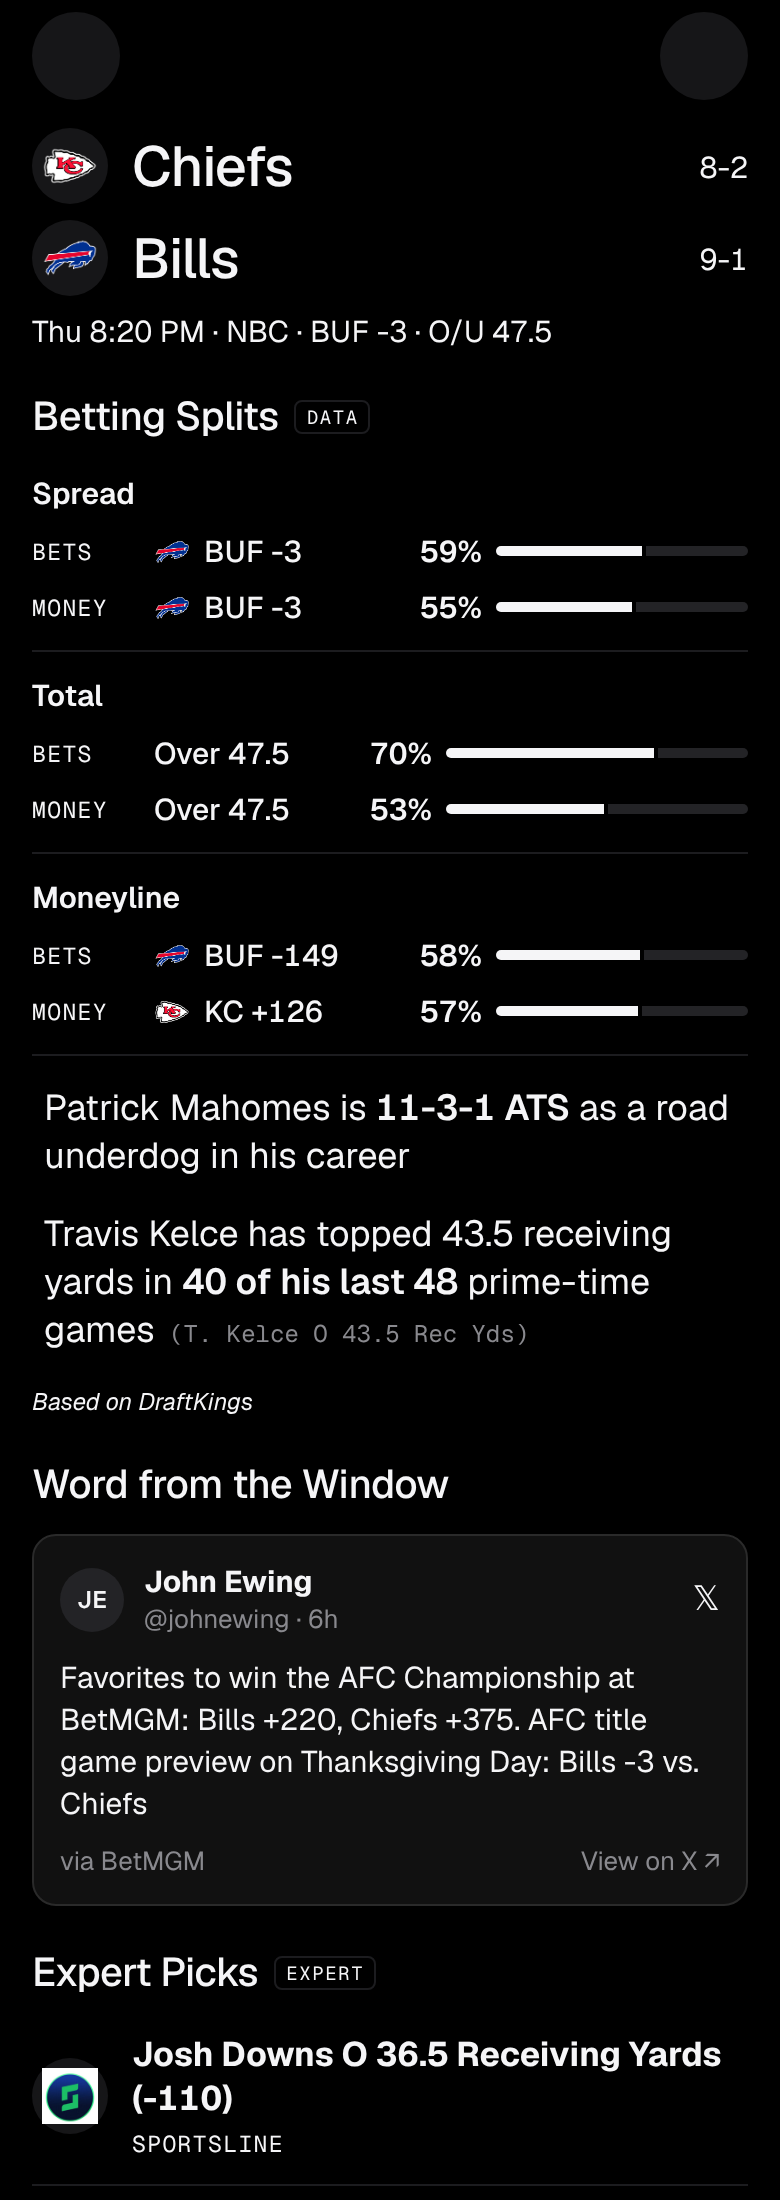
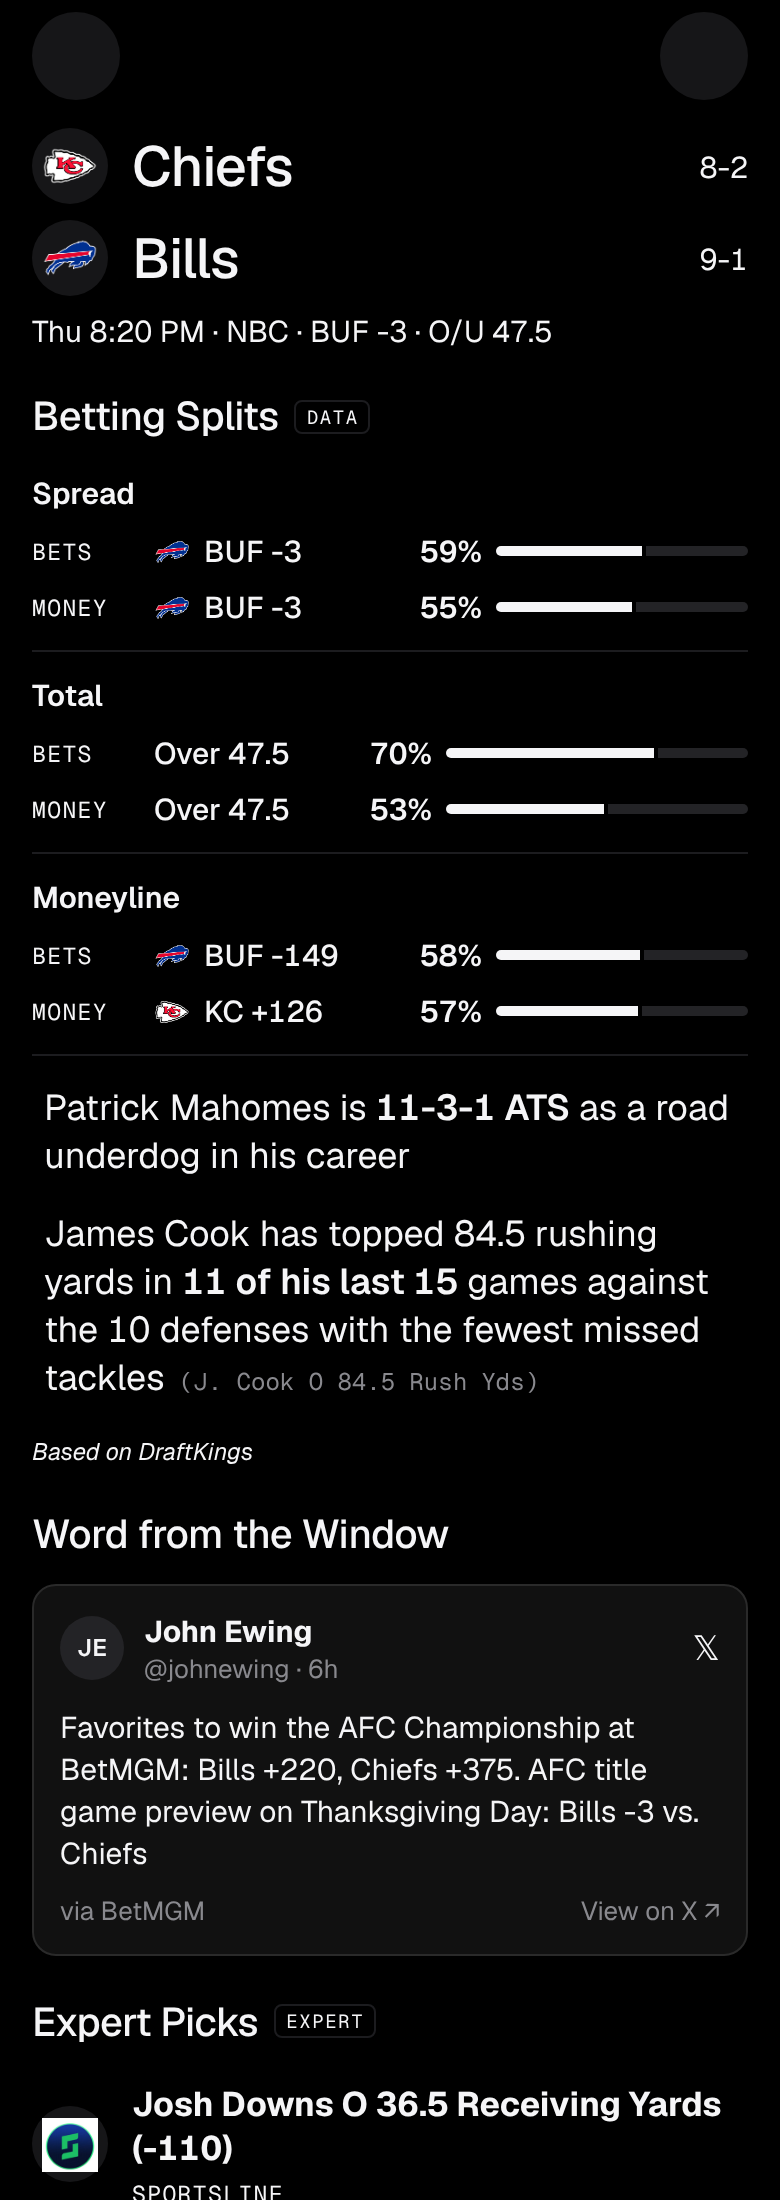
Player lines: prefer defense, teammate, coach and opponent angles; rank stale spans last (D-105)
The shown line now prefers, among angles that pass the bar, the opponent's
defense this season (ranks, blitz and pressure), then teammates and the
quarterback, then this coach or his former team, then this opponent, then
the setting, his form and plain splits. A sample mostly from before the
last three seasons ranks behind every fresher angle, so a 48-game career
span no longer tops a game. Same bar, same check pass, one line per game.
Today's rows re-seeded; after screenshot updated.

Claude-Session: https://claude.ai/code/session_01GABbi6DtH7oST5ZKYYFAPk

Changed region(s): [[0.0308, 0.5564, 0.9231, 1.0], [0.8923, 0.7109, 0.9231, 0.7727]]

diff --git a/scripts/angles/player_angles.py b/scripts/angles/player_angles.py
@@ -188,12 +188,19 @@ BIG_GAMES = {   # (stat, threshold, phrase) for "after a big game", by market fa
     "rec": ("receiving_yards", 100, "after a 100-yard receiving game"),
     "nba_pts": ("pts", 30, "after a 30-point game"),
 }
-# What makes an angle interesting: matchup, defense, coach, teammates and weather first, then the setting
-# and his form; plain splits (PLAIN) rank behind every angle that has something more specific.
+# Within a preference tier (TIER below), what makes one angle stronger than another: the score weighs these.
 BOOST = {"defense": 1.5, "coach": 1.5, "former": 1.5, "out": 1.5, "qbout": 1.5, "cold": 1.3, "wind": 1.3,
          "opp": 1.0, "qb": 0.3, "prime": 0.8, "tv": 0.4, "div": 0.6, "rest": 0.8, "big": 0.9, "own": 0.4, "mins": 0.6,
          "roof": 0.4, "role": 0.0, "fd": 0.0, "bigline": 0.2, "prev": 0.2}
-PLAIN = {"role", "fd", "bigline", "prev"}   # vanilla splits: they lead only when nothing else passes
+# The order the shown line prefers, among angles that pass the bar (owner, Nov 24: "how many times a player
+# gets blitzed vs. the defense... success against a certain coach... how a team ranks in the league"):
+# 1 the opponent's defense this season (ranks, blitz and pressure), 2 teammates and his quarterback,
+# 3 this head coach or his former team, 4 this opponent, 5 the setting, 6 his own form, 7 plain splits,
+# 8 no condition at all. An angle takes the best tier among its conditions.
+TIER = {"defense": 1, "out": 2, "qbout": 2, "qb": 2, "coach": 3, "former": 3, "opp": 4,
+        "prime": 5, "tv": 5, "div": 5, "roof": 5, "cold": 5, "wind": 5, "rest": 5,
+        "own": 6, "big": 6, "mins": 6, "role": 7, "fd": 7, "bigline": 7, "prev": 7}
+FRESH_SHARE = 0.5           # at least half the sample from this season and the two before, or it ranks last
 
 
 def short_name(full: str, first: str = "", last: str = "", suffix: str = "") -> str:
@@ -286,6 +293,7 @@ class Angle:
     sample: list = field(default_factory=list)   # [(game key, value)] newest first
     relevance: float = 0.0
     prominence: float = 0.0
+    recent_share: float = 1.0   # share of the sample from this season and the two before
 
     @property
     def rate(self) -> float:
@@ -296,11 +304,6 @@ class Angle:
         return self.rate >= STRONG_RATE and self.z >= STRONG_Z and self.zbase >= STRONG_ZBASE
 
     @property
-    def specific(self) -> bool:
-        """Not a plain split: at least one situational or matchup condition, or his games with a new team."""
-        return bool(set(self.conds) - PLAIN) or self.window == "team"
-
-    @property
     def score(self) -> float:
         credibility = min(1.0, 0.4 * math.log2(self.games / CFG[self.sport]["min_games"]))
         words = len(self.text.split())
@@ -308,8 +311,19 @@ class Angle:
                 - PAIR_PENALTY * max(0, len(self.conds) - 1) - 0.06 * max(0, words - 20))
 
     @property
+    def tier(self) -> int:
+        if self.window == "team" and not self.conds:
+            return 6   # his games since joining a new team: about him, like his form
+        return min((TIER.get(k, 7) for k in self.conds), default=8)
+
+    @property
+    def fresh(self) -> bool:
+        """Mostly recent games: a 48-game career span never tops a game that has a recent angle."""
+        return self.recent_share >= FRESH_SHARE
+
+    @property
     def order(self):
-        return (self.specific, self.strong, self.score)
+        return (self.fresh, -self.tier, self.strong, self.score)
 
 
 def zscore(h: int, n: int, p: float = 0.5) -> float:
@@ -1140,7 +1154,8 @@ def evaluate(sport: str, u: Upcoming, team: str, pid: str, prop: str, line: floa
                 if not combo and window == "season":
                     rel -= 0.6     # "this season" alone is the obvious one
                 out.append(Angle(sport, pid, name, team, m, prop, line, side, hits, n, z, zb, base[side], window,
-                                 tuple(c.kind for c in combo), text, record, [(g.key, g.vals[m.key]) for g in sel], rel, prominence))
+                                 tuple(c.kind for c in combo), text, record, [(g.key, g.vals[m.key]) for g in sel], rel, prominence,
+                                 sum(1 for g in sel if g.season >= season - (WINDOW_SEASONS - 1)) / n))
     return out
 
 
@@ -1339,7 +1354,7 @@ def main() -> None:
         total_failed += dropped
         print(f"\n{u.matchup} ({u.t}, {len(u.props)} props): {n} candidates, {checked} checked, {dropped} failed, {len(picks)} kept", flush=True)
         for i, a in enumerate(picks, 1):
-            print(f"  {i}. [{'specific ' if a.specific else 'plain '}{'strong' if a.strong else 'fallback'} {a.score:.2f} z{a.z:.1f}/{a.zbase:.1f} "
+            print(f"  {i}. [{'' if a.fresh else 'stale '}t{a.tier} {'strong' if a.strong else 'fallback'} {a.score:.2f} z{a.z:.1f}/{a.zbase:.1f} "
                   f"base {a.base:.0%}] {a.text}", flush=True)
         lines = []
         for i, a in enumerate(picks, 1):
@@ -1407,7 +1422,7 @@ def self_test() -> None:
     assert verify(a, data, u) is None
     # the defense angle (the same games here) is rich, so it outranks the plain home split
     top = sorted(angles, key=lambda x: x.order, reverse=True)[0]
-    assert top.specific and top.conds == ("defense",), top.text
+    assert top.tier == 1 and top.conds == ("defense",), top.text
     assert top.text == "Test Player has topped 24.5 points in 15 of his last 15 games against top-10 defenses", top.text
     assert verify(top, data, u) is None
     # tampering is caught
@@ -1444,6 +1459,14 @@ def self_test() -> None:
     picks = choose([mk("a", pts, 4), mk("b", pts, 3.8), mk("c", pts, 3.7), mk("d", reb, 2.5)])
     assert {p.market.key for p in picks} == {"pts", "reb"} and len(picks) == 3
     assert choose([mk("a", pts, 4), mk("b", reb, 2.0, ("defense",))])[0].player == "b"
+    # the preference order: defense, then teammates, coach, opponent, setting, form, plain
+    tiers = [mk(p, pts if i % 2 else reb, 3.0, (k,)) for i, (p, k) in enumerate(
+        [("g", "role"), ("f", "own"), ("e", "prime"), ("d", "opp"), ("c", "coach"), ("b", "out"), ("a", "defense")])]
+    assert [x.player for x in sorted(tiers, key=lambda x: x.order, reverse=True)] == list("abcdefg")
+    # a stale career span (mostly older seasons) ranks behind a fresh angle of any tier
+    stale = mk("s", pts, 4.0, ("defense",))
+    stale.recent_share = 0.3
+    assert choose([stale, mk("t", reb, 2.0, ("role",))])[0].player == "t"
     # gaps: a game with no box score stops the history there
     g = [PG(key=str(i), season=2027, t=f"2027-01-{20 - i:02d}T19:00", player="p", team="T", opp="O", home=True, neutral=False, vals={}) for i in range(5)]
     assert len(cut_at_gaps(g, {"T": ["2027-01-17T12:00"]})) == 4

diff --git a/docs/mobile/DECISIONS.md b/docs/mobile/DECISIONS.md
@@ -608,6 +608,6 @@ Newest at the bottom. Each entry: what was decided, why, and who decided. "Owner
 **Where it shows:** the game page only, directly under the game's one line (D-075) and in the same style (green pulse, the record bolded), followed by the prop in small gray mono, normal case, `c.textTertiary`, 12 points: "(T. Kelce O 43.5 Rec Yds)", with that side's DraftKings price when the feed has one ("(J. Allen O 240.5 Pass Yds -110)"; formatted by `formatPropBet` in `packages/shared/odds/format.ts`). It shows even when the game has no team line, and not on final games. No new section, headshots or title. Today and Games rows are unchanged.
 **Sources (free, verified Nov 24):** props from ESPN's core odds API, DraftKings (provider 100), `.../events/{id}/competitions/{id}/odds/100/propBets` (paginated): the main "Total ..." line per player and market, plus Anytime Touchdown Scorer graded against 0.5; milestone ladders, quarters, halves and first scorers are skipped. The feed carries the line but no price (its over and under items are identical), so `price` is stored as null and dropped from the display until a free source has it. NFL history from nflverse since 2018: weekly player stats, snap counts (a player who played with no stat row counts as a 0, so "his last n" never skips a game), PFR advanced stats (blitzes, pressures, yards before contact, missed tackles), schedules with coaches, roof, temperature, wind, rest and division, and players.csv for ESPN ids; downloaded each run in Actions (completed seasons cached). Upcoming NFL weather is ESPN's forecast temperature and indoor flag (no free wind forecast reached; wind is used only when ESPN's forecast says windy). NBA history from ESPN game summaries for every game in `nba_espn.csv` plus this season (`scripts/angles/nba_boxes.py`): one compact row per player who played, committed as `data/history/nba_players_espn.csv` (4.6 MB) and `nba_team_games_espn.csv` (possessions, national TV); this season is cached in Actions. Injuries ("Out" or injured reserve) from ESPN's game summary.
 **Angles (`scripts/angles/player_angles.py`):** every condition true for this game, alone or in pairs: this opponent, its head coach (NFL), his former team, the opponent's defense this season as of each game (top or bottom 10 in pass, rush, points, sacks, yards to his position, yards before contact, missed tackles; blitz rate 30%+ or under 20%; pressure rate 25%+ or under 20%; NBA points allowed per 100 possessions and pace), who his quarterback is, his usual quarterback or a top teammate out, prime time, national TV, division, indoors or outdoors, under 35 degrees, short week, off a bye, back-to-backs and rest, after a 300-yard, 100-yard or 30-point game, after topping or being held under this number, after 38+ minutes, and plain splits (home or road, favorite or underdog, after a win or loss). Windows: his last three seasons, this season, since joining a new team (this season or last), his last 10, and every game in the data for rare situations. Each sample is literally "his last n" such games; a push counts as a miss for both sides.
-**Rules:** at least 8 NFL or 10 NBA games, one in the last two seasons; at least 70% and 10 points above his own rate against this number in all his recent games, 1.75 standard deviations from a coin flip and 1.25 from his own rate (strong tier: 75%, 2.0 and 2.0); not a side he already hits 75% of the time; not contradicted by this season (with 4 NFL or 5 NBA games played, he hits that side at least half the time this season); not a trivial number ("0.5 receptions"); no "has not scored a touchdown". A pair of conditions must include a matchup condition, each half must point the same way alone, and the pair must beat both. Only featured players: the starting quarterback, the lead back and the top three receivers by their lines (NBA: the top four by points line). Ranking: anything specific ahead of plain splits (plain ones lead only when nothing else passes), then strong ahead of fallback, then a score of hit rate, distance from a coin flip and from his own rate, how specific the condition is (defense, coach, teammates, weather most), sample size, how many markets the book offers on him, minus pairs and long sentences. The top 3 per game are stored (one per player, varied markets); rank 1 shows.
-**Check pass:** before anything ships, each candidate's record is recomputed from the raw CSV rows (stat values, hits, sample size, home or road, opponent, prime time, division, roof, temperature, coach and national TV read again from the raw files), and its sentence is checked for its numbers, pick words and dashes. Nov 24: 180 of 180 top candidates matched (NFL 127, NBA 53), none dropped. `--self-test` covers wording, pushes, thresholds, ranking, tampering and gaps.
-**Delivery:** table `player_lines` (migration `20261124200000_player_lines.sql`, public read, written only through `replace_player_lines`, which replaces a game's rows in one transaction); `ingest-player-lines` accepts only the game-lines workflow on main (GitHub OIDC, D-101) and refuses pick language. `.github/workflows/game-lines.yml` runs the engine after the team lines twice a day (NFL next 7 days, NBA next 2); a game whose props aren't posted yet keeps what it had. `app-feed`'s game view adds `playerLine` (rank 1: text, record, short_name, side, line, price, market_short and the rest). Nov 24's rows were seeded once from a local run (30 lines, 10 games); the workflow replaces them from its next run on main.
+**Rules:** at least 8 NFL or 10 NBA games, one in the last two seasons; at least 70% and 10 points above his own rate against this number in all his recent games, 1.75 standard deviations from a coin flip and 1.25 from his own rate (strong tier: 75%, 2.0 and 2.0); not a side he already hits 75% of the time; not contradicted by this season (with 4 NFL or 5 NBA games played, he hits that side at least half the time this season); not a trivial number ("0.5 receptions"); no "has not scored a touchdown". A pair of conditions must include a matchup condition, each half must point the same way alone, and the pair must beat both. Only featured players: the starting quarterback, the lead back and the top three receivers by their lines (NBA: the top four by points line). Ranking (coordinator and owner, Nov 24: "how many times a player gets blitzed vs. the defense... success against a certain coach... how a team ranks in the league"): among angles that pass the bar, the shown line prefers, in order, (1) the opponent's defense this season (ranks, blitz and pressure), (2) teammates and his quarterback (who his QB is, his usual QB or a top teammate out), (3) this head coach or his former team, (4) this opponent, (5) the setting (prime time, national TV, division, indoors or outdoors, cold, short week, bye, rest), (6) his own form, (7) plain splits, then no condition; an angle takes the best tier among its conditions. A sample mostly from before the last three seasons (a 48-game career span in prime time) ranks behind every fresher angle. Within a tier: strong ahead of fallback, then a score of hit rate, distance from a coin flip and from his own rate, sample size and how many markets the book offers on him, minus pairs and long sentences. The top 3 per game are stored (one per player, varied markets); rank 1 shows.
+**Check pass:** before anything ships, each candidate's record is recomputed from the raw CSV rows (stat values, hits, sample size, home or road, opponent, prime time, division, roof, temperature, coach and national TV read again from the raw files), and its sentence is checked for its numbers, pick words and dashes. Nov 24: 183 of 183 top candidates matched (NFL 131, NBA 52), none dropped. `--self-test` covers wording, pushes, thresholds, ranking, tampering and gaps.
+**Delivery:** table `player_lines` (migration `20261124200000_player_lines.sql`, public read, written only through `replace_player_lines`, which replaces a game's rows in one transaction); `ingest-player-lines` accepts only the game-lines workflow on main (GitHub OIDC, D-101) and refuses pick language. `.github/workflows/game-lines.yml` runs the engine after the team lines twice a day (NFL next 7 days, NBA next 2); a game whose props aren't posted yet keeps what it had. `app-feed`'s game view adds `playerLine` (rank 1: text, record, short_name, side, line, price, market_short and the rest). Nov 24's rows were seeded once from a local run (30 lines, 10 games; re-seeded after the preference order); the workflow replaces them from its next run on main.
